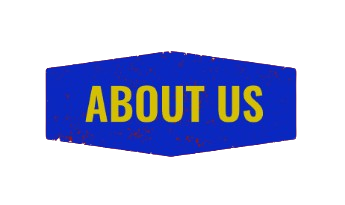
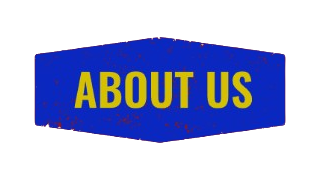
feat: página about linkada com todas as outras

Changed region(s): [[0.0932, 0.1944, 0.9006, 0.8056], [0.4037, 0.3056, 0.4658, 0.3611], [0.4969, 0.3056, 0.528, 0.3333]]

diff --git a/TrabalhoGrupo4/src/pages/Cadastro/index.tsx b/TrabalhoGrupo4/src/pages/Cadastro/index.tsx
@@ -1,4 +1,12 @@
-import { View, Text, Image, ScrollView, Alert, StatusBar } from "react-native";
+import {
+  TouchableOpacity,
+  View,
+  Text,
+  Image,
+  ScrollView,
+  Alert,
+  StatusBar,
+} from "react-native";
 import React, { useState } from "react";
 import styles from "./styles";
 import { Button } from "../../components/Button";
@@ -26,9 +34,7 @@ const Cadastro = () => {
       limpar();
       try {
         const response = await api.post("/usuarios", { nome, email, senha });
-        alert(
-          "cadastro efetuado com sucesso, retornando a pagina de login"
-        );
+        alert("cadastro efetuado com sucesso, retornando a pagina de login");
       } catch (error) {
         navigation.navigate("login" as never);
       }
@@ -49,51 +55,56 @@ const Cadastro = () => {
       <StatusBar />
       <ScrollView accessibilityLabel="Rolagem">
         <View style={styles.viewContent}>
-          <Image source={LogoTeamHero} style={styles.logo} />
-
+          <TouchableOpacity
+            onPress={() => {
+              navigation.navigate("about" as never);
+            }}
+          >
+            <Image source={LogoTeamHero} style={styles.logo} />
+          </TouchableOpacity>
           <InputList
             inputs={[
               {
                 placeholder: "nome",
                 value: nome,
                 setValue: setNome,
-                id:1,
+                id: 1,
               },
               {
                 placeholder: "email",
                 value: email,
                 setValue: setEmail,
-                id:2,
+                id: 2,
               },
               {
                 placeholder: "senha",
                 value: senha,
                 setValue: setSenha,
-                id:3,
+                id: 3,
               },
               {
                 placeholder: "confirmar senha",
                 value: confirmaSenha,
                 setValue: setConfirmaSenha,
-                id:4,
+                id: 4,
               },
             ]}
             limpar={limpar}
           />
-          
-          <View style={{width: '100%', alignItems: 'center', marginTop: 29}}>
+
+          <View style={{ width: "100%", alignItems: "center", marginTop: 29 }}>
             <Button
               text="Cadastrar"
               onPress={adicionarNovo}
               buttonHeight={60}
               buttonWidth={200}
               textFontSize={36}
-              />
+            />
 
             <Text
               onPress={() => navigation.navigate("login" as never)}
               style={styles.text}
-              >
+            >
               Já possui uma conta? Entre!
             </Text>
           </View>

diff --git a/TrabalhoGrupo4/src/pages/Login/index.tsx b/TrabalhoGrupo4/src/pages/Login/index.tsx
@@ -1,4 +1,11 @@
-import { View, Text, StatusBar, ScrollView, Image } from "react-native";
+import {
+  TouchableOpacity,
+  View,
+  Text,
+  StatusBar,
+  ScrollView,
+  Image,
+} from "react-native";
 import React, { useState, useContext } from "react";
 import LogoTeamHero from "../../assets/Images/TeamHeroesLogo.png";
 import { useNavigation } from "@react-navigation/native";
@@ -48,10 +55,12 @@ const Login = () => {
       <StatusBar />
       <ScrollView>
         <View style={styles.viewContent}>
-          <Image
-            source={LogoTeamHero}
-            style={[styles.logo, { marginTop: 10, marginBottom: 50 }]}
-          />
+          <TouchableOpacity onPress={() => {navigation.navigate('about' as never)}}>
+            <Image
+              source={LogoTeamHero}
+              style={[styles.logo, { marginTop: 10, marginBottom: 50 }]}
+            />
+          </TouchableOpacity>
           <InputList
             inputs={[
               { id: 1, placeholder: "email", value: email, setValue: setEmail },
@@ -59,19 +68,19 @@ const Login = () => {
             ]}
             limpar={limpar}
           />
-          <View style={{width: '100%', alignItems: 'center', marginTop: 29}}>
+          <View style={{ width: "100%", alignItems: "center", marginTop: 29 }}>
             <Button
               text="Entrar"
               buttonHeight={60}
               buttonWidth={200}
               textFontSize={36}
               onPress={Logar}
-              />
+            />
 
             <Text
               style={styles.signupText}
               onPress={() => navigation.navigate("cadastro" as never)}
-              >
+            >
               Não possui uma conta? Cadastre-se
             </Text>
           </View>

diff --git a/TrabalhoGrupo4/src/routes/BottomTab/BottomTabRoutes.tsx b/TrabalhoGrupo4/src/routes/BottomTab/BottomTabRoutes.tsx
@@ -4,7 +4,9 @@ import Time from "../../pages/Time";
 import { createBottomTabNavigator } from '@react-navigation/bottom-tabs';
 import TimeIcon from "../../assets/Images/teamButton.png"
 import HomeIcon from "../../assets/Images/heroesButton.png"
+import AboutImg from '../../assets/Images/aboutUsButton.png'
 import About from "../../pages/About";
+
 
 const Tab = createBottomTabNavigator<RootTabParamList>();
 
@@ -14,7 +16,7 @@ export type RootTabParamList = {
 	About: {};
 }
 
-export default function BottonTabRoutes() {
+export default function BottomTabRoutes() {
 
     return (
 		<Tab.Navigator
@@ -54,16 +56,6 @@ export default function BottonTabRoutes() {
 				}}
 				name="Time"
 				component={Time}
-			/>
-			<Tab.Screen
-				options={{
-					tabBarShowLabel:false,
-					tabBarIcon: ({ color }) => (
-						<Text>Sobre</Text>
-					)
-				}}
-				name="About"
-				component={About}
 			/>
 		</Tab.Navigator>
 	);

diff --git a/TrabalhoGrupo4/src/pages/About/index.tsx b/TrabalhoGrupo4/src/pages/About/index.tsx
@@ -2,14 +2,16 @@ import { View, Text, Image, ScrollView, Alert, StatusBar } from "react-native";
 import React, { useState } from "react";
 import styles from "./styles";
 import { Footer } from "../../components/Footer";
-import LogoTeamHero from "../../assets/Images/TeamHeroesLogo.png";
+import LogoTeamHero from "../../assets/Images/aboutUsButton.png";
 import { CardAbout } from "../../components/CardAbout";
 import prof from '../../assets/Images/prof.png'
+import Header from "../../components/header/header";
 
 const About = () => {
   return (
     <View style={styles.viewContainer}>
       <StatusBar />
+      <Header/>
       <ScrollView accessibilityLabel="Rolagem">
         <View style={styles.viewContent}>
           <Image source={LogoTeamHero} style={styles.logo} />

diff --git a/TrabalhoGrupo4/src/routes/Stack/StackRoutes.tsx b/TrabalhoGrupo4/src/routes/Stack/StackRoutes.tsx
@@ -1,8 +1,9 @@
 import { createStackNavigator } from "@react-navigation/stack";
-import BottonTabRoutes from "../BottonTab/BottonTabRoutes";
+import BottonTabRoutes from "../BottomTab/BottomTabRoutes";
 
 import Login from "../../pages/Login";
 import Cadastro from "../../pages/Cadastro";
+import About from "../../pages/About";
 
 export default function StackRoutes() {
   const Stack = createStackNavigator();
@@ -17,6 +18,7 @@ export default function StackRoutes() {
         <Stack.Screen name="login" component={Login} />
         <Stack.Screen name="cadastro" component={Cadastro} />
         <Stack.Screen name="home" component={BottonTabRoutes} />
+        <Stack.Screen name="about" component={About} />
       </Stack.Navigator>
   );
 }

diff --git a/TrabalhoGrupo4/src/components/header/header.tsx b/TrabalhoGrupo4/src/components/header/header.tsx
@@ -20,7 +20,9 @@ const Header = () => {
 
   return (
     <View style={Style.containerheader}>
+      <TouchableOpacity onPress={() => {navigation.navigate('about' as never)}}>
       <Image source={TeamHeroesLogo} style={Style.imgHeader} />
+      </TouchableOpacity>
       <TouchableOpacity onPress={sair}>
         <Image source={Back} style={Style.imgHeader} />
       </TouchableOpacity>
